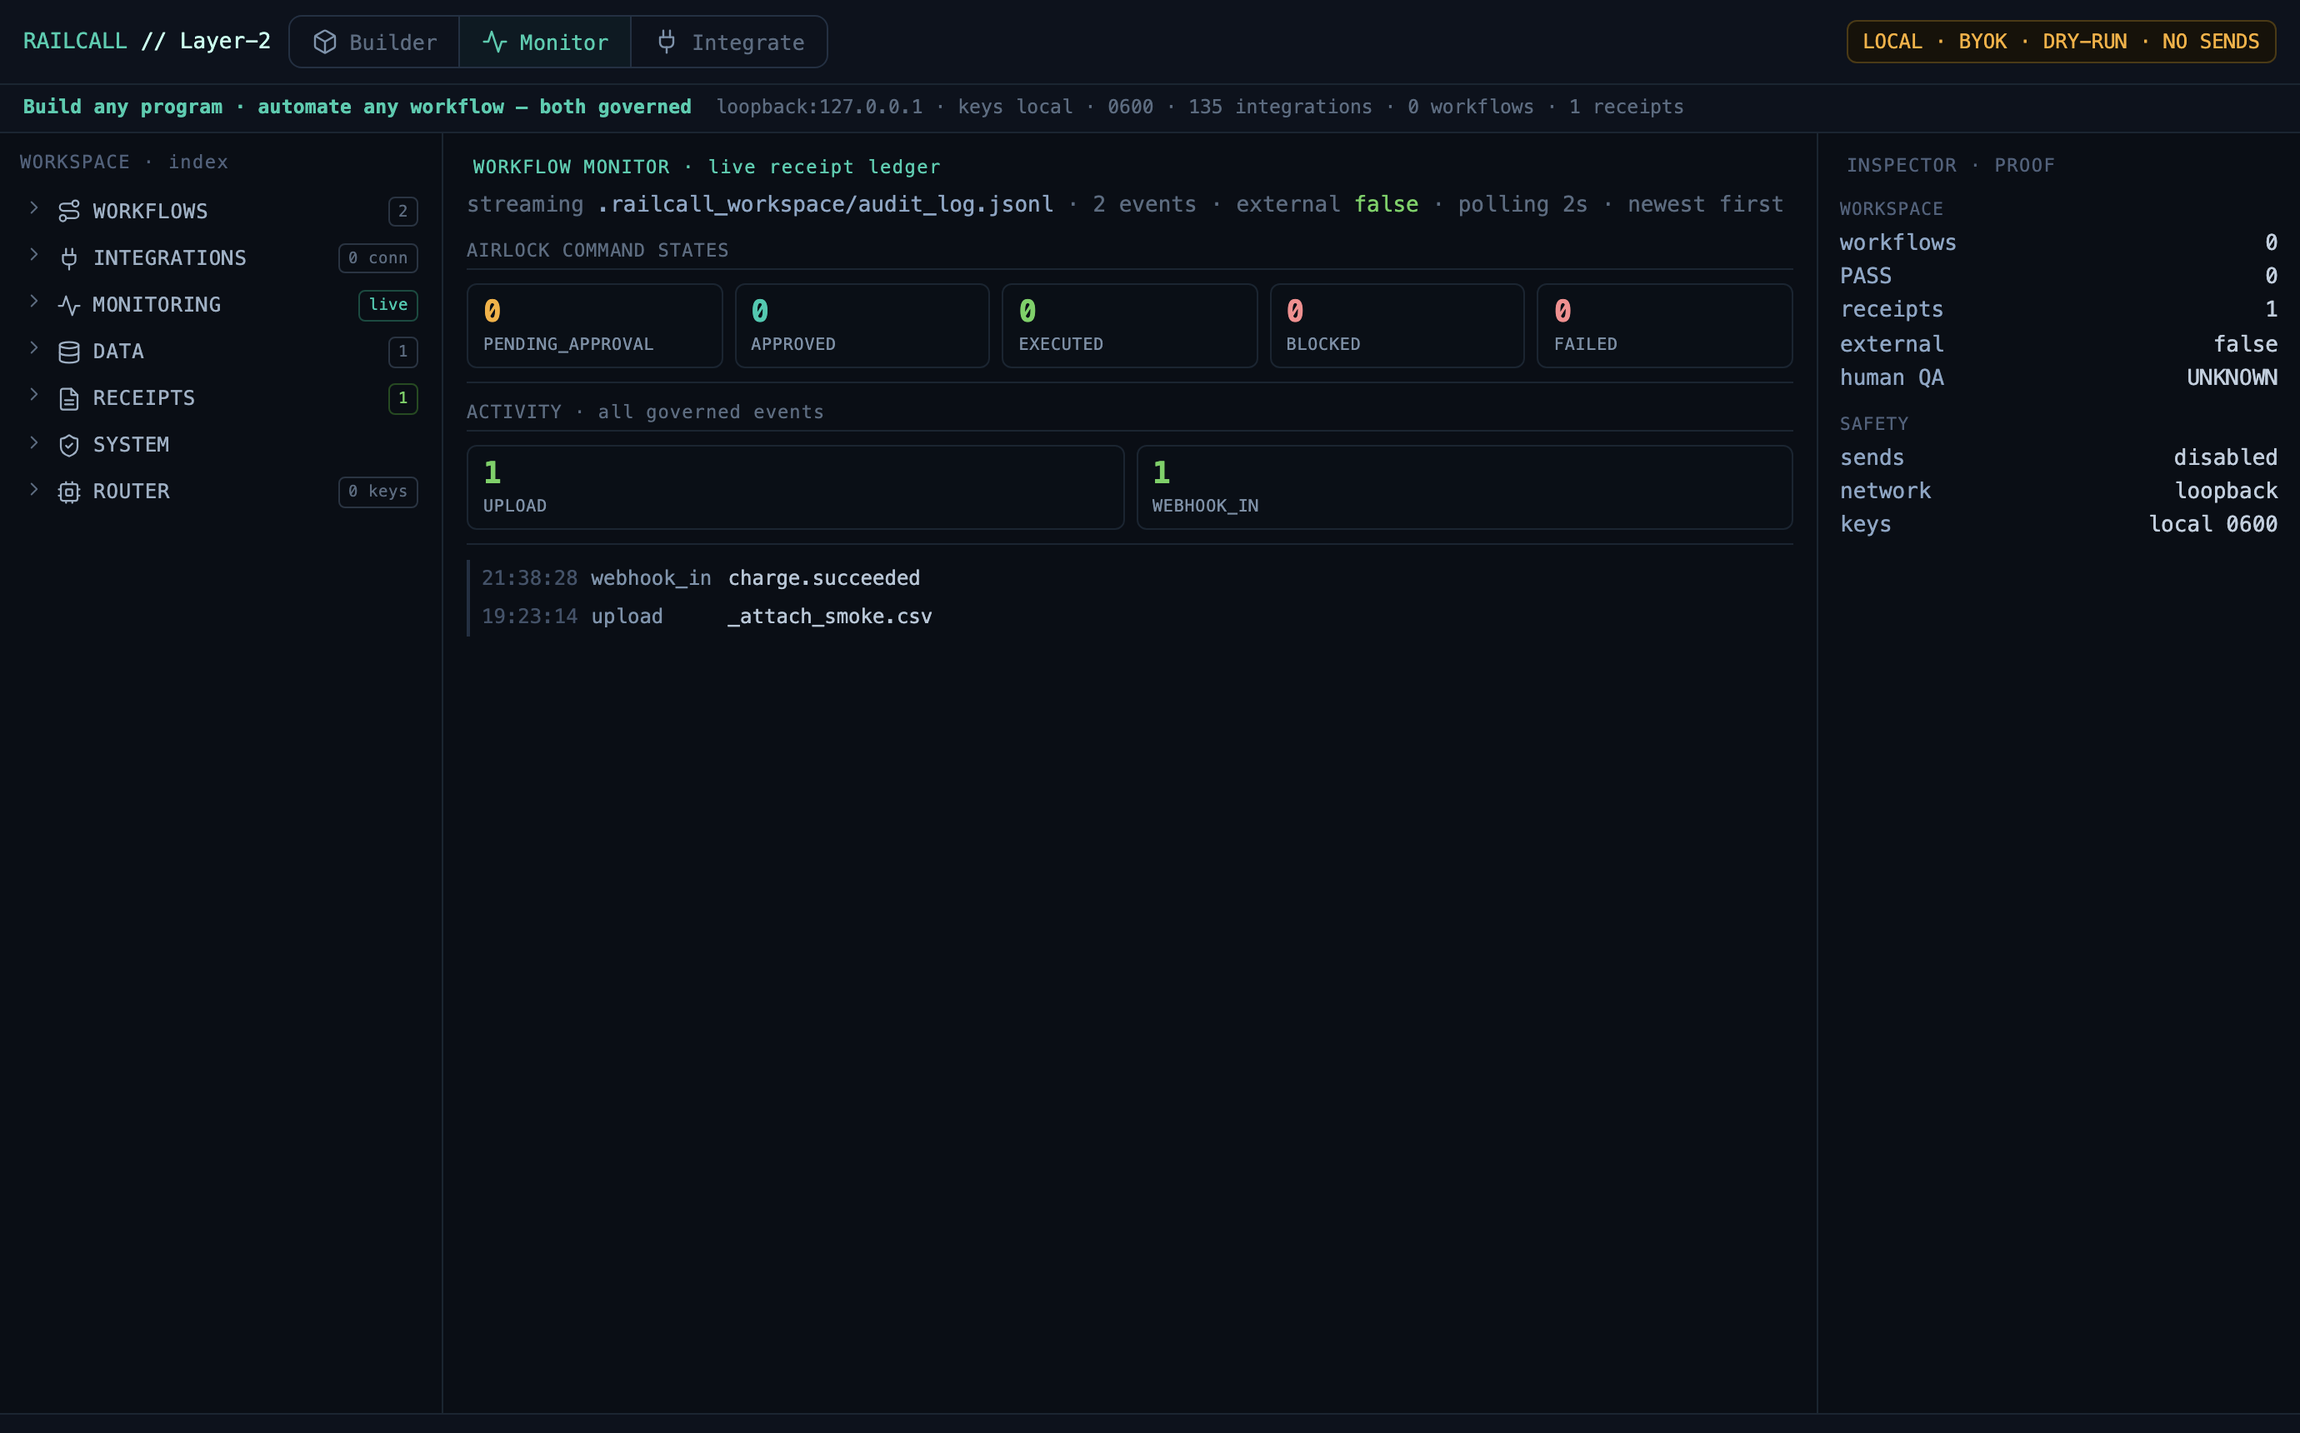
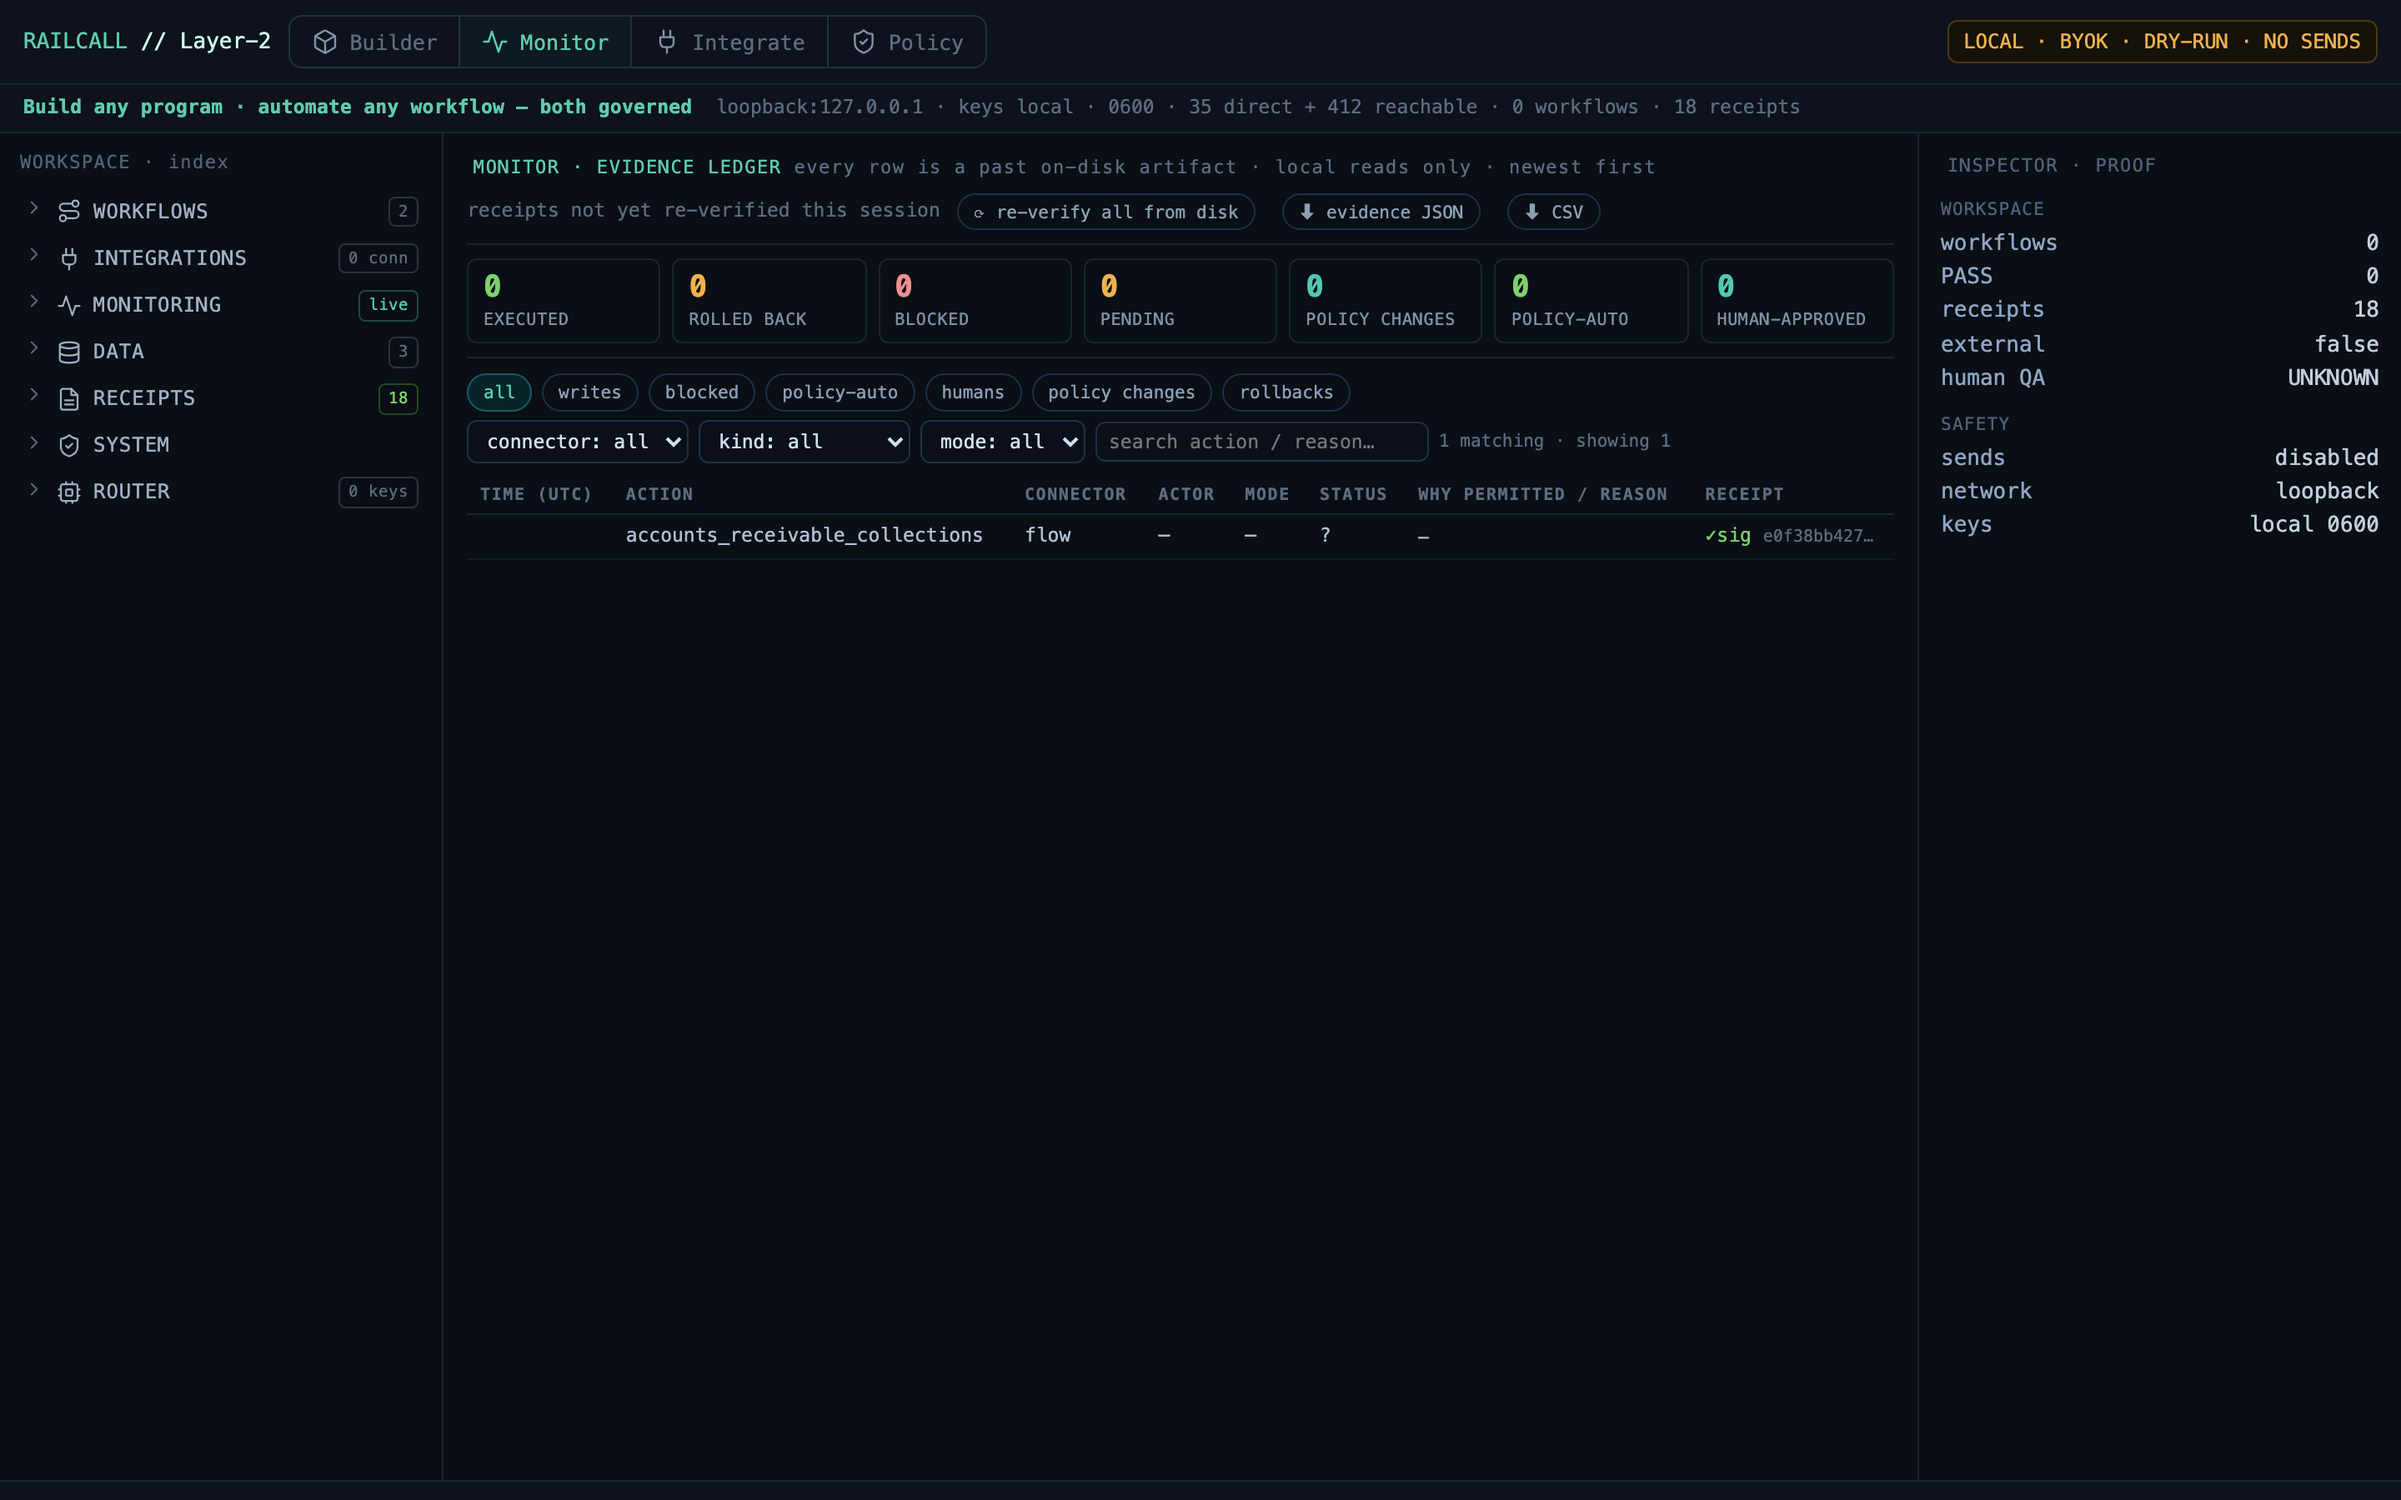
site: refresh ALL product imagery to the current build — 4 docs-assets screenshots retaken from :8799 (builder home, integrate, Evidence Ledger, workflow detail), hero cockpit mock updated (Policy tab, 35+412 counts, policy v2 chip, ledger naming), stale monitor caption rewritten

diff --git a/index.html b/index.html
@@ -197,10 +197,11 @@
                     <span style="padding:5px 11px;color:#5d6c80">Builder</span>
                     <span style="padding:5px 11px;color:#5fcbb0;background:#0e1a22;border-left:1px solid #243042;border-right:1px solid #243042">Monitor</span>
                     <span style="padding:5px 11px;color:#5d6c80">Integrate</span>
+                    <span style="padding:5px 11px;color:#5d6c80;border-left:1px solid #243042">Policy</span>
                   </span>
-                  <span style="margin-left:auto;color:#f0b24a;font-size:10px;border:1px solid #4a3a16;border-radius:6px;padding:3px 9px;background:#16120a">LOCAL · BYOK · DRY-RUN · RECEIPT-BACKED · NO FAKE GREEN</span>
+                  <span style="margin-left:auto;color:#f0b64a;font-size:10px;border:1px solid #4a3a16;border-radius:6px;padding:3px 9px;background:#16120a">LOCAL · BYOK · DRY-RUN · RECEIPT-BACKED · NO FAKE GREEN</span>
                 </div>
-                <div style="padding:5px 13px;border-bottom:1px solid #1b2531;color:#5d6c80;font-size:10.5px">loopback:127.0.0.1 · keys local · 0600 · 26 integrations · 6 workflows · <span id="r-receipts">266</span> receipts</div>
+                <div style="padding:5px 13px;border-bottom:1px solid #1b2531;color:#5d6c80;font-size:10.5px">loopback:127.0.0.1 · keys local · 0600 · 35 direct + 412 reachable · 6 workflows · <span id="r-receipts">266</span> receipts · policy <span style="color:#c4b5fd">v2 ✓ signed</span></div>
                 <div class="rc-cockpit-grid" style="display:grid;grid-template-columns:188px 1fr 178px;height:446px;color:#c2cedd">
                   <div style="border-right:1px solid #1b2531;padding:8px;overflow:hidden">
                     <div style="color:#52617a;font-size:9.5px;margin-bottom:7px">WORKSPACE · index</div>
@@ -212,10 +213,11 @@
                     <div style="padding:2px 4px 2px 16px;color:#aebccd">hubspot_leads <span style="float:right;color:#7fd06a;font-size:8px;border:1px solid #274a22;border-radius:3px;padding:0 4px">PASS</span></div>
                     <div style="padding:3px 4px;color:#9fb0c4">▸ DATA <span style="float:right;color:#5d6c80">6</span></div>
                     <div style="padding:3px 4px;color:#9fb0c4">▸ RECEIPTS <span style="float:right;color:#5d6c80" id="r-receipts2">266</span></div>
+                    <div style="padding:3px 4px;color:#9fb0c4">▸ POLICY <span style="float:right;color:#c4b5fd">v2 ✓</span></div>
                   </div>
                   <div style="padding:9px 12px;overflow:hidden">
-                    <div style="color:#5fcbb0;font-size:10px">WORKFLOW MONITOR · <span style="color:#f0b24a">Studio Interface Preview</span></div>
-                    <div style="color:#5d6c80;font-size:9.5px;margin-bottom:8px">illustrative client-side preview · not live data · the real-time panel runs in local RailCall Studio (loopback · daemon GET /monitor)</div>
+                    <div style="color:#5fcbb0;font-size:10px">MONITOR · EVIDENCE LEDGER · <span style="color:#f0b24a">Studio Interface Preview</span></div>
+                    <div style="color:#5d6c80;font-size:9.5px;margin-bottom:8px">illustrative client-side preview · not live data · the real panel attributes every action to a human click or a named policy version, re-verified from disk</div>
                     <div style="display:flex;gap:5px;margin-bottom:9px">
                       <div style="flex:1;background:#0a0f16;border:1px solid #1b2531;border-radius:5px;padding:5px 6px"><b style="display:block;font-size:21px;color:#f0b24a" id="c-pending">81</b><span style="font-size:7.5px;color:#7e90a6">PENDING</span></div>
                       <div style="flex:1;background:#0a0f16;border:1px solid #1b2531;border-radius:5px;padding:5px 6px"><b style="display:block;font-size:21px;color:#5fcbb0" id="c-approved">56</b><span style="font-size:7.5px;color:#7e90a6">APPROVED</span></div>

diff --git a/docs.html b/docs.html
@@ -436,8 +436,8 @@ http://127.0.0.1:8799/api/webhook/stripe_payment_slot</pre></div>
   <h2 id="receipts">11 · Audit Receipts &amp; the Evidence Ledger</h2>
   <p>RailCall does not call something <span class="gr">green</span> unless there is evidence. Every audited flow emits a receipt:</p>
   <div class="fig">
-   <img src="docs-assets/studio-monitor.png" alt="Studio Monitor view: live receipt ledger streaming from .railcall_workspace/audit_log.jsonl, Airlock command states (pending_approval, approved, executed, blocked, failed all zero), and a governed activity feed showing webhook_in and upload events" loading="lazy">
-   <div class="cap"><b>Monitor</b> — the live receipt ledger streaming from <code>.railcall_workspace/audit_log.jsonl</code>, with the Airlock command states (<span class="am">pending</span> · <span class="gr">approved</span> · executed · <span class="rd">blocked</span> · failed) and every governed event, newest first.</div>
+   <img src="docs-assets/studio-monitor.png" alt="Studio Monitor tab — the Evidence Ledger: chain-verification badge, click-through counters, saved views and filters, and a table attributing every action to a human click or a named policy version" loading="lazy">
+   <div class="cap"><b>Monitor · Evidence Ledger</b> — every row is a past on-disk artifact: receipts, policy changes, and the <span class="rd">blocked</span> / <span class="am">pending</span> events too, attributed to <span class="gr">policy_auto (vN)</span> or a human click, newest first. One click re-verifies every receipt from disk.</div>
   </div>
   <div class="code"><span class="lang">receipt · example</span><button class="cp">Copy</button><pre>{
   <span class="s">"result"</span>: <span class="s">"PASS"</span>,
